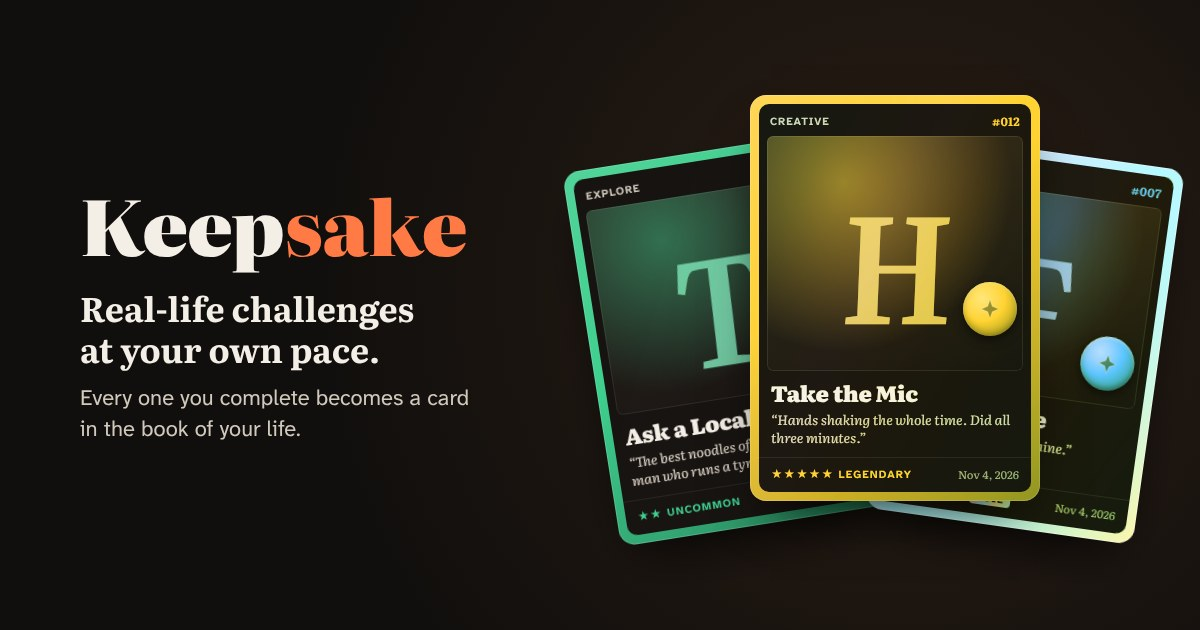
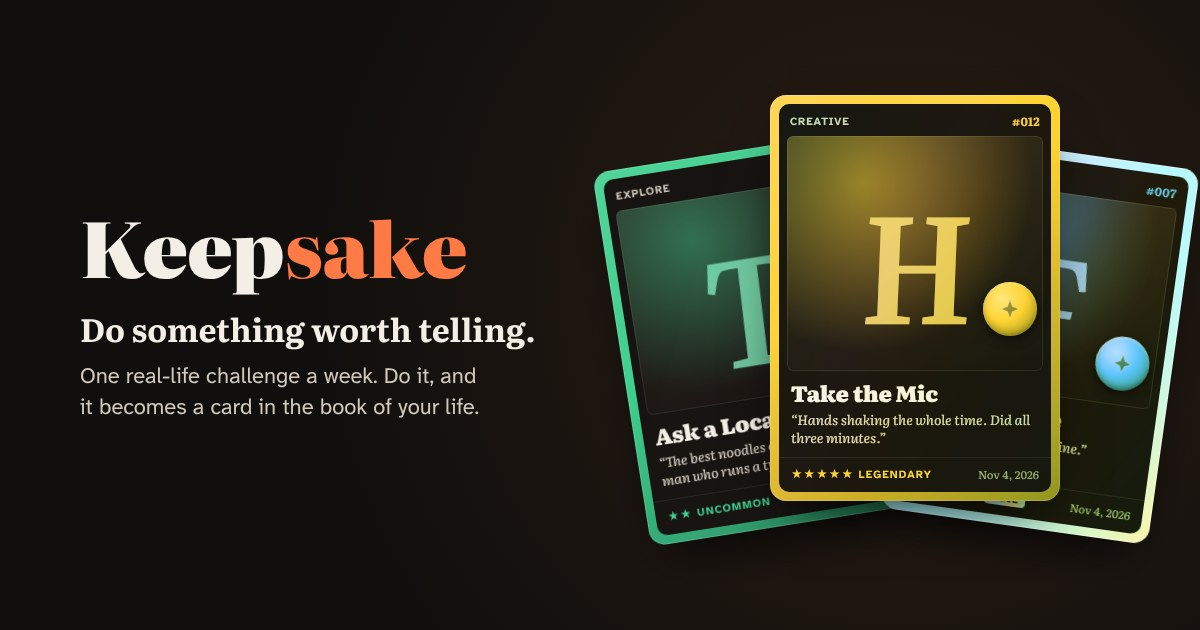
New slogan: Do something worth telling
Replaces "real-life challenges at your own pace" in the share preview,
the share image, the page description, the app manifest, onboarding and
the README. The point is the push out of your comfort zone, and the card
is the story you get to keep.

Claude-Session: https://claude.ai/code/session_0122uZCXQ9or5vBjPvnZBLX7

Changed region(s): [[0.0617, 0.1508, 1.0, 0.8746]]

diff --git a/index.html b/index.html
@@ -5,12 +5,12 @@
   <meta name="viewport" content="width=device-width, initial-scale=1, viewport-fit=cover">
   <meta name="theme-color" content="#110f0d">
   <title>Keepsake</title>
-  <meta name="description" content="Real-life challenges at your own pace. Every one you complete becomes a card in the book of your life.">
+  <meta name="description" content="One real-life challenge a week, a little braver each time. Do it, and it becomes a card in the book of your life.">
   <!-- how the link looks when it's shared in a chat -->
   <meta property="og:type" content="website">
   <meta property="og:site_name" content="Keepsake">
-  <meta property="og:title" content="Keepsake: real-life challenges at your own pace">
-  <meta property="og:description" content="Every one you complete becomes a card in the book of your life.">
+  <meta property="og:title" content="Keepsake: do something worth telling">
+  <meta property="og:description" content="One real-life challenge a week, a little braver each time. Do it, and it becomes a card in the book of your life.">
   <meta property="og:url" content="https://collederas.github.io/keepsake/">
   <meta property="og:image" content="https://collederas.github.io/keepsake/og.jpg">
   <meta property="og:image:width" content="1200">

diff --git a/app.js b/app.js
@@ -738,7 +738,7 @@ function onboardingHTML() {
   const step = state.onboardStep;
   if (step === 0) return `
     <section class="onboard">
-      <h2>Real-life challenges, at your pace.</h2>
+      <h2>Do something worth telling.</h2>
       <ul class="how">
         <li>Go do a challenge, out in the real world.</li>
         <li>Come back and add a photo or a line.</li>

diff --git a/README.md b/README.md
@@ -1,6 +1,6 @@
 # Keepsake
 
-**Real-life challenges at your own pace, one a week by default. Every one you complete becomes a collectible card in the book of your life.**
+**Do something worth telling.** One real-life challenge a week, a little braver each time. Do it, and it becomes a collectible card in the book of your life. (Prefer more? There's also a few a week, or every day.)
 
 Go to an open mic. Take a bus to nowhere. Ask a stranger over 60 for the best advice they ever got. When you've done it, add a photo and one line about what happened, and watch a live preview of your card. Then tap the face-down card. It charges up through the rarity tiers, which stay hidden until this moment, and flips. Your photo develops like a print, your words ink in, and a wax seal presses into the corner. Epic and Legendary cards also get a burst of light and confetti. The card lands in your Book, numbered, dated and kept forever. You can edit its words later or export it as a high-resolution image to share.
 
